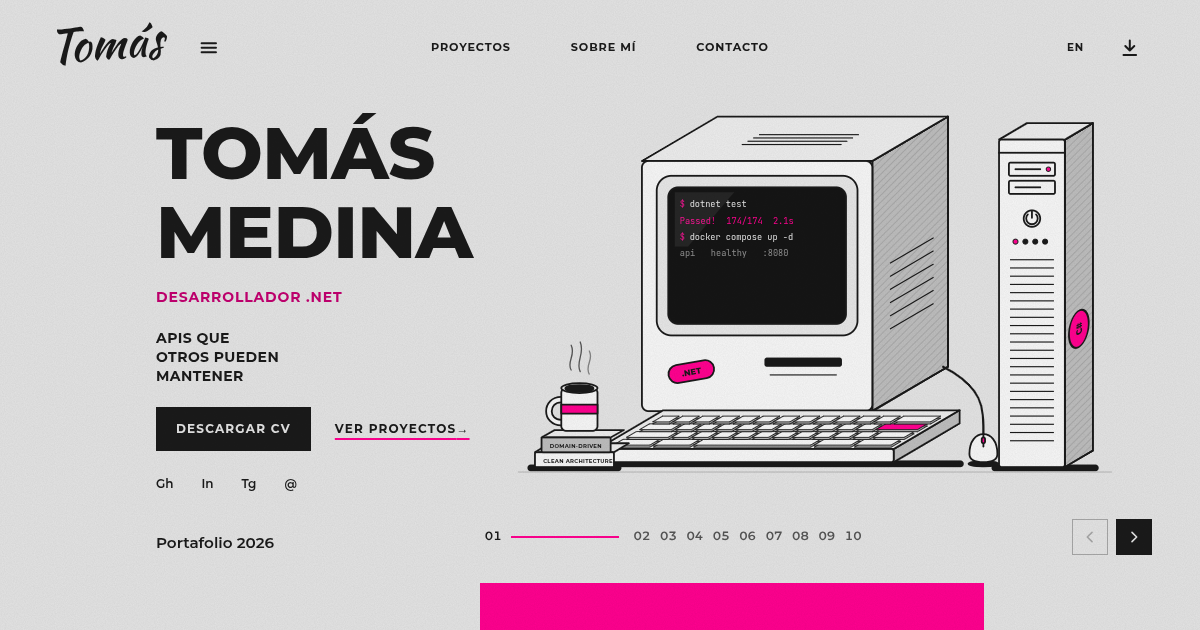
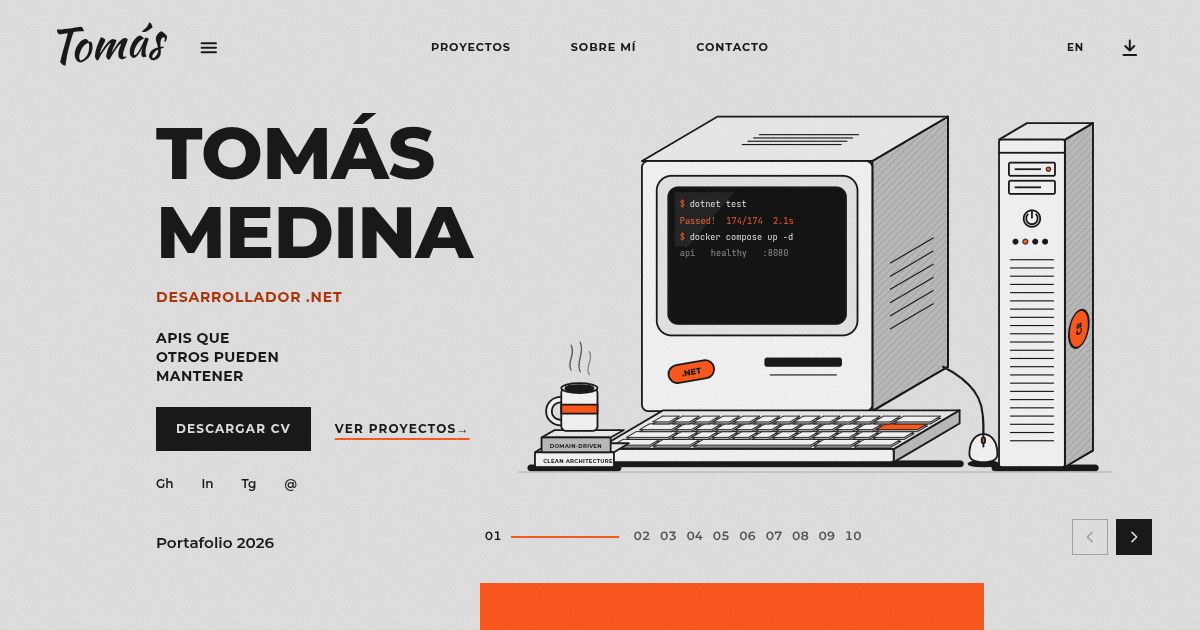
feat(theme): swap the magenta accent for signal orange
Orange #ff5a1f replaces magenta as the one accent. Ink on it holds 5.6:1;
small orange text uses #b0360a (4.8:1 on the grey paper). Favicon, social
preview, comments and README follow.

diff --git a/app/globals.css b/app/globals.css
@@ -2,8 +2,8 @@
 @import 'tw-animate-css';
 
 /*
- * A gallery print: cool grey paper, black ink and one hot magenta. Pure
- * magenta is a surface or a stroke behind ink (4.7:1 with ink on it); as
+ * A gallery print: cool grey paper, black ink and one signal orange. Pure
+ * orange is a surface or a stroke behind ink (5.6:1 with ink on it); as
  * small text on the grey it fails contrast, so text uses --marker-ink.
  */
 :root {
@@ -12,8 +12,8 @@
   --ink: #1a1a1a;
   --ink-soft: #555555;
   --rule: #c4c4c4;
-  --marker: #ff018f;
-  --marker-ink: #c2006f;
+  --marker: #ff5a1f;
+  --marker-ink: #b0360a;
   --night: #141414;
   --night-soft: #a3a3a3;
   --night-rule: #343434;
@@ -571,7 +571,7 @@
       font-weight: 600;
     }
   }
-  /* The magenta block rising from the bottom edge under the drawing (wide screens only). */
+  /* The orange block rising from the bottom edge under the drawing (wide screens only). */
   .hero-block {
     display: none;
   }
@@ -965,7 +965,7 @@
     margin-top: 0;
   }
 
-  /* Controls: numbered pagination with a magenta rule after the current scene, and square arrows. */
+  /* Controls: numbered pagination with an orange rule after the current scene, and square arrows. */
   .deck-bar {
     position: fixed;
     left: var(--gutter);
@@ -987,7 +987,7 @@
     .deck-bar {
       padding-left: calc(40vw - var(--gutter));
     }
-    /* On the home the bar sits above the magenta block, as in a print's caption line. */
+    /* On the home the bar sits above the orange block, as in a print's caption line. */
     .deck-bar.is-home {
       bottom: calc(7.5vh + 1.4rem);
     }

diff --git a/components/site/Hero.tsx b/components/site/Hero.tsx
@@ -24,9 +24,9 @@ const DRIFT = 12;
 
 /**
  * The opening scene, composed like a gallery print: a short stack of type on
- * the left (name, role in magenta, a three-line motto) and a line-art
+ * the left (name, role in orange, a three-line motto) and a line-art
  * workstation on the right whose terminal really runs, its lights blink and
- * its pieces drift apart with the pointer. A magenta block rises from the
+ * its pieces drift apart with the pointer. An orange block rises from the
  * bottom edge under it.
  */
 export default function Hero() {
@@ -144,7 +144,7 @@ export default function Hero() {
   }, [deck]);
 
   useScene({
-    // The print is laid out piece by piece: the magenta block rises, the type is pulled up line by
+    // The print is laid out piece by piece: the orange block rises, the type is pulled up line by
     // line, the workstation is set down object by object, its keys drop in and the CRT warms up.
     enter(tl, at) {
       live.current?.clear();

diff --git a/components/site/Workstation.tsx b/components/site/Workstation.tsx
@@ -1,6 +1,6 @@
 /**
  * The hero's illustration: a retro workstation in black line work with
- * magenta details, the portfolio's answer to the reference's car. Drawn in
+ * orange details, the portfolio's answer to the reference's car. Drawn in
  * one oblique projection (every depth edge runs up-right at the same slope),
  * so the pieces read as one scene. It only draws; Hero animates it through
  * the data attributes:
@@ -16,7 +16,7 @@ const deck = (u: number, v: number) => [96 + 360 * u + 80 * v, 446 - 47 * v] as 
 const quad = (u0: number, v0: number, u1: number, v1: number) =>
   [deck(u0, v0), deck(u1, v0), deck(u1, v1), deck(u0, v1)].map((p) => p.join(",")).join(" ");
 
-/** Key widths per row, in key units (14 per row), front row first. The magenta one is Enter. */
+/** Key widths per row, in key units (14 per row), front row first. The orange one is Enter. */
 const ROWS = [
   [2, 2, 6, 2, 2],
   [2.25, 1, 1, 1, 1, 1, 1, 1, 1, 1, 1, 1.75],

diff --git a/components/site/Deck.tsx b/components/site/Deck.tsx
@@ -311,7 +311,7 @@ export default function Deck({ scenes }: { scenes: DeckScene[] }) {
 
       {on && (
         <>
-          {/* The pagination of a print series: every scene's number, with a magenta rule running after the current one. */}
+          {/* The pagination of a print series: every scene's number, with an orange rule running after the current one. */}
           <div className={`deck-bar ${index === 0 ? "is-home" : ""} ${scenes[index]?.night ? "is-night" : ""}`}>
             <nav className="deck-pages" aria-label={d.scenes}>
               <ol>

diff --git a/lib/palette.ts b/lib/palette.ts
@@ -5,4 +5,4 @@
 export const PAPER = "#e3e3e3";
 export const INK = "#1a1a1a";
 export const NIGHT = "#141414";
-export const MARKER = "#ff018f";
+export const MARKER = "#ff5a1f";

diff --git a/README.md b/README.md
@@ -157,14 +157,14 @@ Para desplegar tu propia instancia:
 
 ## ✨ Diseño y experiencia
 
-**Concepto: una lámina de galería.** Papel gris frío, tinta negra y un solo magenta. La portada se compone como un cartel: una columna corta de texto a la izquierda y una ilustración de línea a la derecha (`components/site/Workstation.tsx`), con un bloque magenta que sale por el borde inferior. Lo que un reclutador debe recordar se subraya en magenta y las notas a mano del margen comentan cada dato.
+**Concepto: una lámina de galería.** Papel gris frío, tinta negra y un solo naranja. La portada se compone como un cartel: una columna corta de texto a la izquierda y una ilustración de línea a la derecha (`components/site/Workstation.tsx`), con un bloque naranja que sale por el borde inferior. Lo que un reclutador debe recordar se subraya en naranja y las notas a mano del margen comentan cada dato.
 
 | Token | Valor | Uso |
 |---|---|---|
 | Papel | `#E3E3E3` | Fondo |
 | Tinta | `#1A1A1A` | Texto y trazos |
-| Marcador | `#FF018F` | Superficies, trazos y subrayado detrás de tinta (4,7:1); nunca como texto pequeño sobre el papel (2,9:1) |
-| Marcador para texto | `#C2006F` | Texto en magenta sobre el papel (4,6:1) |
+| Marcador | `#FF5A1F` | Superficies, trazos y subrayado detrás de tinta (5,6:1); nunca como texto pequeño sobre el papel (2,4:1) |
+| Marcador para texto | `#B0360A` | Texto en naranja sobre el papel (4,8:1) |
 | Noche | `#141414` | La escena de OCAP |
 
 Los colores que el código necesita fuera de CSS (canvas, WebGL, tweens de GSAP) salen de `lib/palette.ts`.
@@ -179,13 +179,13 @@ La ventana no hace scroll. El sitio es una baraja de 10 escenas a pantalla compl
 2. Si la escena tiene pasos (las tres afirmaciones, las dos composiciones de cada proyecto, las cuatro capas), avanza un paso.
 3. Si no, transiciona a la escena siguiente.
 
-Cada transición es una sola línea de tiempo de GSAP en tres tiempos: sale el contenido de la escena actual, cambia el escenario y entra el contenido de la siguiente (`changeStage`, `enterContent` y `leaveContent` en `lib/reveal.ts`). Hay tres cambios de escenario: **empuje en profundidad** (la escena se aleja y se inclina mientras la nueva llega por debajo), **barrido** (una franja magenta inclinada cubre la pantalla y la descubre ya cambiada) e **iris** (la noche de OCAP se abre en círculo). Cada escena declara cuál usa al entrar en `app/page.tsx`.
+Cada transición es una sola línea de tiempo de GSAP en tres tiempos: sale el contenido de la escena actual, cambia el escenario y entra el contenido de la siguiente (`changeStage`, `enterContent` y `leaveContent` en `lib/reveal.ts`). Hay tres cambios de escenario: **empuje en profundidad** (la escena se aleja y se inclina mientras la nueva llega por debajo), **barrido** (una franja naranja inclinada cubre la pantalla y la descubre ya cambiada) e **iris** (la noche de OCAP se abre en círculo). Cada escena declara cuál usa al entrar en `app/page.tsx`.
 
 Cada escena registra con `useScene` su entrada, su salida y sus pasos. Lo común se marca con atributos y lo resuelve `lib/reveal.ts`: `data-lines` (un bloque de marcador pasa sobre cada línea de un título), `data-reveal` (cortinilla con sesgo, `"x"` de lado), `data-hl` (subrayado), `data-note` (nota a mano) y `data-count` (contador). Lo que una escena anima por su cuenta va dentro de `data-motion-owned`.
 
 **Reglas del controlador.** Los gestos (rueda, tacto) se descartan durante una transición y en los 420 ms siguientes, para que la inercia del trackpad no se convierta en pasos de más; las teclas, los controles y los enlaces sí se guardan y se ejecutan al terminar. La entrada vuelve a aceptarse en cuanto el escenario ha cambiado, aunque el contenido siga animándose: si llega otra orden, esa animación se completa al instante. Con el menú o un diálogo abiertos, la baraja no se mueve.
 
-**Controles y enlaces.** Una paginación numerada "01 —— 02 03 …" con todas las escenas: tras la actual corre una línea magenta, cada número es un enlace y al pasar el cursor muestra el nombre de la escena; a la derecha, flechas cuadradas de anterior y siguiente (en móvil solo la de siguiente). En la portada la barra sube sobre el bloque magenta y en la escena oscura se invierte. La cabecera lleva el logotipo y el menú completo a la izquierda, tres secciones centradas y, a la derecha, el idioma y la descarga del CV. Cada escena tiene su hash (`#proyectos`, `#ocap`, `#contacto`…): el menú, los botones internos, los enlaces directos y el botón Atrás del navegador llevan a ella. El cambio de idioma conserva la escena. Un aviso para lectores de pantalla anuncia cada cambio, y con teclado el foco pasa a la escena nueva.
+**Controles y enlaces.** Una paginación numerada "01 —— 02 03 …" con todas las escenas: tras la actual corre una línea naranja, cada número es un enlace y al pasar el cursor muestra el nombre de la escena; a la derecha, flechas cuadradas de anterior y siguiente (en móvil solo la de siguiente). En la portada la barra sube sobre el bloque naranja y en la escena oscura se invierte. La cabecera lleva el logotipo y el menú completo a la izquierda, tres secciones centradas y, a la derecha, el idioma y la descarga del CV. Cada escena tiene su hash (`#proyectos`, `#ocap`, `#contacto`…): el menú, los botones internos, los enlaces directos y el botón Atrás del navegador llevan a ella. El cambio de idioma conserva la escena. Un aviso para lectores de pantalla anuncia cada cambio, y con teclado el foco pasa a la escena nueva.
 
 **Sin animación.** Con `prefers-reduced-motion` (o sin JavaScript) la baraja no se activa: la página es un documento normal con scroll nativo, todas las escenas en orden y su contenido completo. El script del `<head>` decide el modo antes del primer pintado.
 
@@ -193,7 +193,7 @@ Cada escena registra con `useScene` su entrada, su salida y sus pasos. Lo común
 
 | Escena | Entrada, pasos y salida |
 |---|---|
-| Inicio | Lámina: sube el bloque magenta, el nombre y el lema se descubren línea a línea y el puesto de trabajo se coloca pieza a pieza; caen las teclas y el CRT se enciende. Después la terminal escribe y ejecuta comandos de verdad (`dotnet test`, `docker compose`, `git push`), parpadean las luces del servidor y sale vapor de la taza. Con ratón, las piezas se separan en paralaje. Salida: el texto sube, las piezas bajan y el bloque se hunde. |
+| Inicio | Lámina: sube el bloque naranja, el nombre y el lema se descubren línea a línea y el puesto de trabajo se coloca pieza a pieza; caen las teclas y el CRT se enciende. Después la terminal escribe y ejecuta comandos de verdad (`dotnet test`, `docker compose`, `git push`), parpadean las luces del servidor y sale vapor de la taza. Con ratón, las piezas se separan en paralaje. Salida: el texto sube, las piezas bajan y el bloque se hunde. |
 | Lo importante | Tres pasos: cada afirmación entra palabra a palabra girando en 3D, se subraya y se anota; la anterior se dispersa. |
 | Cómo trabajo | Las filas de verbos cruzan la pantalla en sentidos opuestos y los verbos en contorno se entintan. |
 | Proyectos | Las letras caen desde distintas alturas y tamaños y se traza la franja; salen estallando. |
@@ -208,7 +208,7 @@ Cada escena registra con `useScene` su entrada, su salida y sus pasos. Lo común
 **3D.** Las teclas del contacto (`three/Keycaps.tsx`) están modeladas en código, sin modelos ni HDR descargados. three.js se descarga la primera vez que se llega al contacto y solo se renderiza mientras esa escena está activa (en modo documento, al acercarse).
 
 **Accesibilidad y rendimiento.**
-- El cursor magenta acompaña al puntero del sistema, que nunca se oculta.
+- El cursor naranja acompaña al puntero del sistema, que nunca se oculta.
 - Las notas que repiten un dato se ocultan a los lectores de pantalla; las cintas animadas tienen su texto equivalente.
 - Medido con el build de producción en Chrome headless con GPU: 205 KB de JavaScript al cargar, transiciones a 60 fps y unos 80 ms de bloqueo del hilo principal en escritorio (unos 330 ms con la CPU 4 veces más lenta).
 
